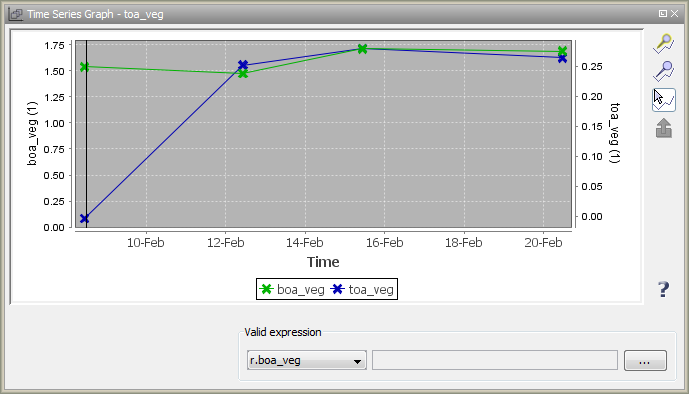
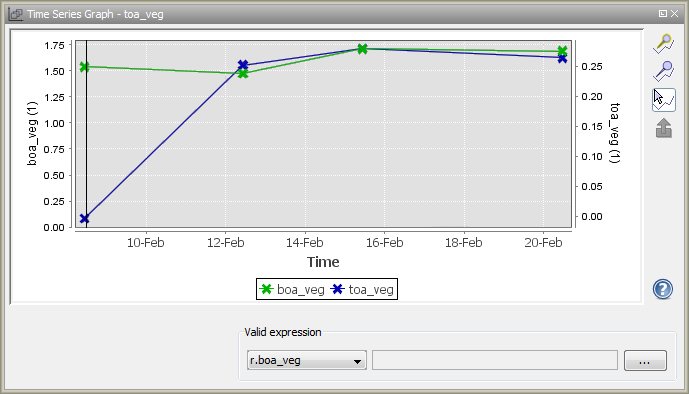
harmonisation with BEAM 4.10 analysis tool windows

diff --git a/time-series-tool/src/main/java/org/esa/beam/timeseries/ui/graph/TimeSeriesGraphForm.java b/time-series-tool/src/main/java/org/esa/beam/timeseries/ui/graph/TimeSeriesGraphForm.java
@@ -39,7 +39,6 @@ import java.awt.event.ActionListener;
 
 class TimeSeriesGraphForm {
 
-
     private JComponent mainPanel;
     private AbstractButton showTimeSeriesForSelectedPinsButton;
     private AbstractButton showTimeSeriesForAllPinsButton;
@@ -160,7 +159,7 @@ class TimeSeriesGraphForm {
             exportTimeSeriesButton.setEnabled(false);
         }
 
-        AbstractButton helpButton = ToolButtonFactory.createButton(UIUtils.loadImageIcon("icons/Help24.gif"), false);
+        AbstractButton helpButton = ToolButtonFactory.createButton(UIUtils.loadImageIcon("icons/Help22.png"), false);
         helpButton.setToolTipText("Help");
 
         final TableLayout tableLayout = new TableLayout(1);

diff --git a/time-series-tool/src/main/java/org/esa/beam/timeseries/ui/graph/TimeSeriesGraphModel.java b/time-series-tool/src/main/java/org/esa/beam/timeseries/ui/graph/TimeSeriesGraphModel.java
@@ -70,7 +70,7 @@ class TimeSeriesGraphModel implements TimeSeriesGraphUpdater.TimeSeriesDataHandl
     private static final String QUALIFIER_INSITU = "_i_";
 
     private static final Color DEFAULT_FOREGROUND_COLOR = Color.BLACK;
-    private static final Color DEFAULT_BACKGROUND_COLOR = new Color(180, 180, 180);
+    private static final Color DEFAULT_BACKGROUND_COLOR = new Color(225, 225, 225);
     private static final String NO_DATA_MESSAGE = "No data to display";
     private static final int CURSOR_COLLECTION_INDEX_OFFSET = 0;
     private static final int PIN_COLLECTION_INDEX_OFFSET = 1;

diff --git a/time-series-tool/src/main/java/org/esa/beam/timeseries/ui/matrix/TimeSeriesMatrixToolView.java b/time-series-tool/src/main/java/org/esa/beam/timeseries/ui/matrix/TimeSeriesMatrixToolView.java
@@ -191,7 +191,7 @@ public class TimeSeriesMatrixToolView extends AbstractToolView {
         tableLayout.setTableWeightY(0.0);
         JPanel buttonPanel = new JPanel(tableLayout);
 
-        AbstractButton helpButton = ToolButtonFactory.createButton(UIUtils.loadImageIcon("icons/Help24.gif"), false);
+        AbstractButton helpButton = ToolButtonFactory.createButton(UIUtils.loadImageIcon("icons/Help22.png"), false);
         helpButton.setToolTipText("Help");
         buttonPanel.add(matrixSizeSpinner);
         buttonPanel.add(tableLayout.createVerticalSpacer());

diff --git a/time-series-tool/src/main/java/org/esa/beam/timeseries/ui/manager/TimeSeriesManagerForm.java b/time-series-tool/src/main/java/org/esa/beam/timeseries/ui/manager/TimeSeriesManagerForm.java
@@ -221,7 +221,7 @@ class TimeSeriesManagerForm {
         final Action viewTimeSeriesButtonAction = new ViewTimeSeriesButtonAction();
         viewButton = ToolButtonFactory.createButton(viewTimeSeriesButtonAction, false);
 
-        AbstractButton helpButton = ToolButtonFactory.createButton(UIUtils.loadImageIcon("icons/Help24.gif"), false);
+        AbstractButton helpButton = ToolButtonFactory.createButton(UIUtils.loadImageIcon("icons/Help22.png"), false);
         helpButton.setToolTipText("Help");
 
         final TableLayout layout = new TableLayout(1);

diff --git a/time-series-tool/src/main/java/org/esa/beam/timeseries/ui/graph/TimeSeriesGraphDisplayController.java b/time-series-tool/src/main/java/org/esa/beam/timeseries/ui/graph/TimeSeriesGraphDisplayController.java
@@ -18,11 +18,11 @@ import java.util.List;
 class TimeSeriesGraphDisplayController {
 
     private static final Color[] COLORS = {
+                Color.blue,
+                Color.red.darker(),
                 Color.green.darker(),
-                Color.blue.darker(),
                 Color.orange,
                 Color.gray,
-                Color.red.darker(),
                 Color.blue,
                 Color.magenta.darker(),
                 Color.pink,

diff --git a/time-series-tool/src/main/java/org/esa/beam/timeseries/ui/player/TimeSeriesPlayerForm.java b/time-series-tool/src/main/java/org/esa/beam/timeseries/ui/player/TimeSeriesPlayerForm.java
@@ -115,7 +115,7 @@ class TimeSeriesPlayerForm extends JPanel {
         plusButton = createPlusButton();
         exportButton = createExportButton();
 
-        AbstractButton helpButton = ToolButtonFactory.createButton(UIUtils.loadImageIcon("icons/Help24.gif"), false);
+        AbstractButton helpButton = ToolButtonFactory.createButton(UIUtils.loadImageIcon("icons/Help22.png"), false);
         helpButton.setToolTipText("Help");
 
         updateSpeedUnit();
